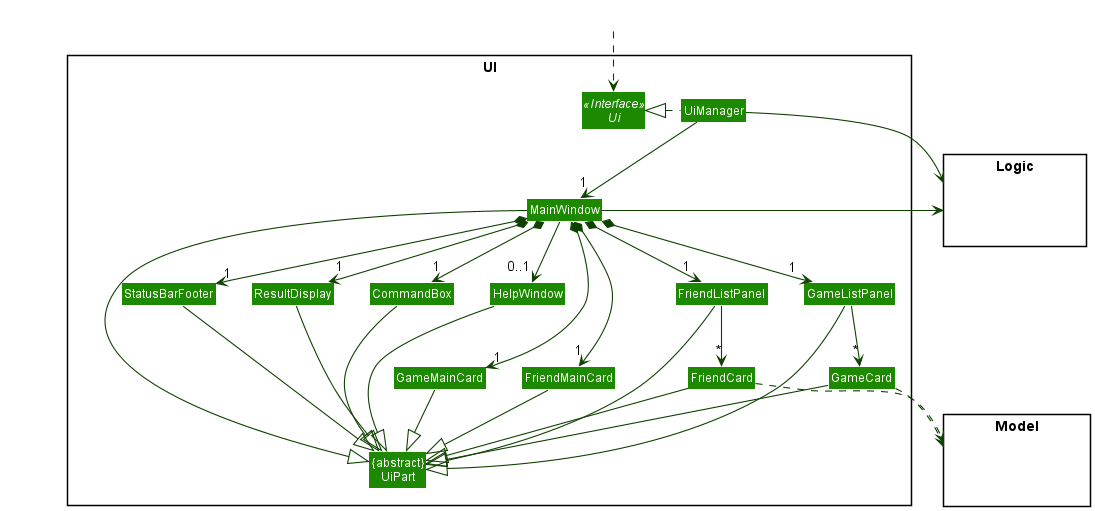
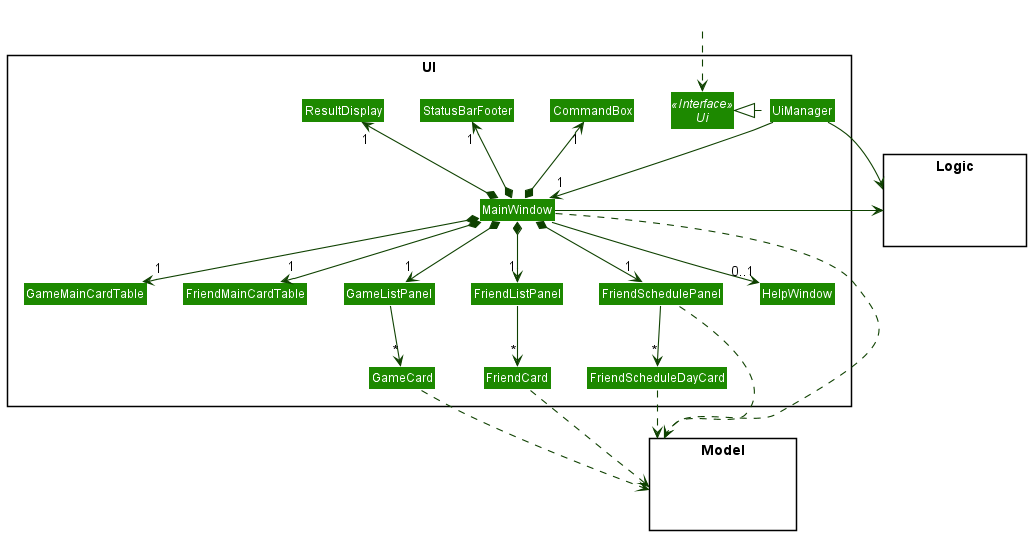
Add link and unlink feature implementation and updated UI component section in DG, update PPP and change some parameter names.

diff --git a/src/main/java/seedu/address/model/friend/UniqueFriendsList.java b/src/main/java/seedu/address/model/friend/UniqueFriendsList.java
@@ -135,14 +135,14 @@ public class UniqueFriendsList implements Iterable<Friend> {
      * Unlinks a Friend {@code friendToUnlink} with game {@code gameToUnlink}.
      * The friend must exist in the list.
      */
-    public void unlink(Friend friendToUnlink, Game gameToUnlink) {
-        requireAllNonNull(friendToUnlink, gameToUnlink);
+    public void unlink(Friend friendToUnlink, Game game) {
+        requireAllNonNull(friendToUnlink, game);
 
         Map<GameId, GameFriendLink> currentLinks = new HashMap<>(friendToUnlink.getGameFriendLinks());
-        Friend editedFriend = new Friend(friendToUnlink.getFriendId(), friendToUnlink.getFriendName(),
+        Friend friendToEdit = new Friend(friendToUnlink.getFriendId(), friendToUnlink.getFriendName(),
                 currentLinks, friendToUnlink.getSchedule());
-        editedFriend.unlink(gameToUnlink);
-        this.setFriend(friendToUnlink, editedFriend);
+        friendToEdit.unlink(game);
+        this.setFriend(friendToUnlink, friendToEdit);
     }
 
     public void setFriends(UniqueFriendsList replacement) {

diff --git a/src/main/java/seedu/address/model/FriendsList.java b/src/main/java/seedu/address/model/FriendsList.java
@@ -110,8 +110,8 @@ public class FriendsList implements ReadOnlyFriendsList {
      * Associates the given friend {@code toLink} in the list with {@code gameFriendLink}
      * {@code toLink} must exist in the friends list.
      */
-    public void linkFriend(Friend toLink, GameFriendLink gameFriendLink) {
-        friends.link(toLink, gameFriendLink);
+    public void linkFriend(Friend friendToLink, GameFriendLink gameFriendLink) {
+        friends.link(friendToLink, gameFriendLink);
     }
 
     /**
@@ -124,8 +124,8 @@ public class FriendsList implements ReadOnlyFriendsList {
     /**
      * Removes the associated {@code GameFriendLink} between Friend {@code toUnlink} and Game {@code game}.
      */
-    public void unlinkFriend(Friend toUnlink, Game game) throws GameLinkNotFoundException {
-        friends.unlink(toUnlink, game);
+    public void unlinkFriend(Friend friendToUnlink, Game game) {
+        friends.unlink(friendToUnlink, game);
     }
 
     /**

diff --git a/src/main/java/seedu/address/logic/commands/friends/UnlinkFriendCommand.java b/src/main/java/seedu/address/logic/commands/friends/UnlinkFriendCommand.java
@@ -51,16 +51,12 @@ public class UnlinkFriendCommand extends Command {
 
         // Obtain a Friend object from the model that matches friendId
         Friend friendToUnlink = model.getFriend(friendId);
-        Game gameToUnlink = model.getGame(gameId);
-        if (!friendToUnlink.hasGameAssociation(gameToUnlink)) {
+        Game game = model.getGame(gameId);
+        if (!friendToUnlink.hasGameAssociation(game)) {
             throw new CommandException(Messages.MESSAGE_GAME_NOT_ASSOCIATED);
         }
 
-        try {
-            model.unlinkFriend(friendToUnlink, gameToUnlink);
-        } catch (GameLinkNotFoundException e) {
-            throw new CommandException(MESSAGE_NO_GAME_LINK_FOUND);
-        }
+        model.unlinkFriend(friendToUnlink, game);
         model.updateFilteredAndSortedFriendsList(Model.PREDICATE_SHOW_ALL_FRIENDS);
 
         return new CommandResult(generateSuccessMessage(friendToUnlink), CommandType.FRIEND_UNLINK);

diff --git a/src/main/java/seedu/address/model/ModelManager.java b/src/main/java/seedu/address/model/ModelManager.java
@@ -147,8 +147,8 @@ public class ModelManager implements Model {
     }
 
     @Override
-    public void linkFriend(Friend toLink, GameFriendLink gameFriendLink) {
-        friendsList.linkFriend(toLink, gameFriendLink);
+    public void linkFriend(Friend friendToLink, GameFriendLink gameFriendLink) {
+        friendsList.linkFriend(friendToLink, gameFriendLink);
     }
 
     @Override
@@ -157,8 +157,8 @@ public class ModelManager implements Model {
     }
 
     @Override
-    public void unlinkFriend(Friend toUnlink, Game game) throws GameLinkNotFoundException {
-        friendsList.unlinkFriend(toUnlink, game);
+    public void unlinkFriend(Friend friendToUnlink, Game game) {
+        friendsList.unlinkFriend(friendToUnlink, game);
     }
 
     //=========== Filtered Friend List Accessors =============================================================

diff --git a/src/main/java/seedu/address/model/Model.java b/src/main/java/seedu/address/model/Model.java
@@ -137,7 +137,7 @@ public interface Model {
     /**
      * Unlinks the friend {@code toUnlink} with the Game {@code game}.
      */
-    void unlinkFriend(Friend toUnlink, Game game) throws GameLinkNotFoundException;
+    void unlinkFriend(Friend toUnlink, Game game);
 
     //=========== GamesBook ==================================================================================
 

diff --git a/src/main/java/seedu/address/ui/FriendMainCardTable.java b/src/main/java/seedu/address/ui/FriendMainCardTable.java
@@ -18,7 +18,6 @@ import seedu.address.model.gamefriendlink.GameFriendLink;
 public class FriendMainCardTable extends UiPart<Region> {
 
     private static final String FXML = "FriendMainCardTable.fxml";
-    private ObservableList<Friend> friendList;
 
     @FXML
     private TableView<GameFriendLink> tableView;

diff --git a/docs/DeveloperGuide.md b/docs/DeveloperGuide.md
@@ -90,6 +90,7 @@ The `UI` component,
 **Component Structure**
 
 ![Structure of the UI Component](images/UiClassDiagram.png)
+![Inheritance from UiPart](images/UiClassDiagramUiPart.png)
 
 The UI consists of a `MainWindow` that is made up of parts e.g.`CommandBox`, `ResultDisplay`, `PersonListPanel`, `StatusBarFooter` etc. All these, including the `MainWindow`, inherit from the abstract `UiPart` class which captures the commonalities between classes that represent parts of the visible GUI.
 
@@ -197,12 +198,23 @@ The parsing of a link command is handled by the following classes:
  - `LinkFriendCommandParser` - Parses the command to extract a `FriendId` object, a `GameId` object and a `UserName` object from the command.
    - `LinkFriendCommandParser#parse()` returns a `LinkFriendCommand` object instantiated with the aforementioned objects as parameters.
  - `LinkFriendCommand` - Represents link friend command that is executed by gitGud.
+   - It calls `Model#linkFriend()` with a `Friend` object argument and a `GameFriendLink` object argument.
+   
+The sequence diagram of the parsing is similar to that of the other friend commands.
 
-Following this, `LinkFriendCommand#execute()` is then called, which in turns calls `ModelManager#linkFriend()` to make changes to the model.
+The implementation of `Model#linkFriend()` is as follows:
+
+- `FriendList#linkFriend()` is called, which in turns called `UniqueFriendList#link()`.
+- A new `Friend` object, `friendToEdit` is created with the same fields as `friendToLink` (the target friend of the link command).
+`Friend#link()` is then called, which modifies `friendToEdit` so that it now contains the new `GameFriendLink`.
+- `UniqueFriendsList#setFriend()` then replaces `friendToLink` with the edited `friendToEdit`, so that the `Friend` in the model is updated.
+
+![Implementation of link command in model](images/LinkSequenceDiagram.png)
 
 #### Special considerations:
 
-Each `Friend` object has a `Map<GameId, GameFriendLink>`, which represents the links to the games it is associated with. However, each `Game` object does not
+ - A separate `GameFriendLink` class was created to represent the association between a friend and a game.
+ - Each `Friend` object has a `Map<GameId, GameFriendLink>`, which represents the links to the games it is associated with. However, each `Game` object does not
 have a corresponding data structure to the friends it is linked to. This reduces coupling between the two components such the implementation of the link feature does not require modification whenever the `Game` class is changed.
 
 ### Unlink
@@ -216,9 +228,18 @@ The parsing of the unlink command is handled by the following classes:
  - `UnlinkFriendCommandParser` - Parses the command to extract a `FriendId` object and a `GameId` object.
    - `UnlinkFriendCommandParser#parse()` return an `UnlinkFriendCommand` object instantiated with the aforementioned objects as parameters.
  - `UnlinkFriendCommand` - Represents unlink friend command that is executed by gitGud.
+   - It calls `Model#unlinkFriend()` with a `Friend` object and a `Game` object.
 
+The sequence diagram of the parsing is similar to that of the other friend commands.
 
-#### Special considerations:
+The implementation of `Model#unlinkFriend()` is as follows:
+
+- `FriendList#unlinkFriend()/FriendList#linkFriend()` is called, which in turns called `UniqueFriendList#unlink()`.
+- A new `Friend` object, `friendToEdit` is created with the same fields as `friendToLink` (the target friend of the unlink command).
+  `Friend#unlink()` is then called, which modifies `friendToEdit` so that it no longer contains a link to the game.
+- `UniqueFriendsList#setFriend()` then replaces `friendToUnlink` with the edited `friendToEdit`, so that the `Friend` in the model is updated.
+
+![Implementation of unlink command in model](images/UnlinkSequenceDiagram.png)
 
 **Aspect: How undo & redo executes:**
 

diff --git a/docs/team/lzher385.md b/docs/team/lzher385.md
@@ -9,16 +9,37 @@ gitGud is a desktop application for managing friends' gaming information. gitGud
 
 Given below are my contributions to the project.
 
-* **New Feature**:
-  1. Added the ability to link a friend with a game he/she plays.
-     1. What it does: allows the user to associate a friend in his contact list with a game that was previously recorded.
-     2. Justification: This feature improves the product significantly because a user is able to note down what games his/her friends play.
+* **Code contributed**: [RepoSense link](https://nus-cs2103-ay2122s1.github.io/tp-dashboard/?search=lzher385&sort=groupTitle&sortWithin=title&timeframe=commit&mergegroup=&groupSelect=groupByRepos&breakdown=true&checkedFileTypes=docs~functional-code~test-code~other&since=2021-09-17&tabOpen=true&tabType=authorship&zFR=false&tabAuthor=LZher385&tabRepo=AY2122S1-CS2103T-W13-4%2Ftp%5Bmaster%5D&authorshipIsMergeGroup=false&authorshipFilesGlob=)
 
-* **Code contributed**: [RepoSense link]()
+* **New Feature**:
+  1. Added the ability to link a friend with a game.
+     1. What it does: allows the user to associate a friend in their contact list with a game that was previously recorded.
+     2. Justification: This feature improves the product significantly because a user is able to note down what games their friends play.
+  2. Added the ability to unlink a friend from a game
+     1. What it does: allows the user to remove the association between a friend and a game that the friend is currently linked to.
+     2. Justification: This feature improves the product significantly as it provides greater flexibility in case a friend no longer plays a particular game.
+  3. Added the ability for the UI to display tables related to a game or a friend.
+     1. What it does: allows the user to see all relevant information related to particular friend/game.
+     2. Challenge: This feature required self-directed learning to learn about JavaFX's TableView and how to use it responsively display data.
+     3. Justification: This feature allows the user to see all information at a glance in neat and tidy format.
+  4. Added the logic for the UI to persist in displaying the previous friend/game that was retrieved using the "get" command.
+     1. What it does: allows the user to continue seeing the previous friend/game that he ran the "get" command for, even when other commands are run.
+     2. Challenge: This feature required thinking through and applying the logic of when to change what was currently displayed, and tracking what the previous friend/game retrieved was.
+     3. Justification: This feature significantly improved user experience as the central display of the UI would not be constantly and unnecessarily refreshed after every command.
+     
+* **Testing**:
+  * Added unit tests for link feature.
 
 * **Documentation**:
   * User Guide:
-    * Added documentation for the features `get --friend` and `get --game`.
+    * Added documentation for the features `friend --get`, `game --get`, `friend --link` and `game --link`.
+    * Edited the introduction to make it more user-focused and gamer-themed.
+
   * Developer Guide:
     * Added glossary for gitGud.
     * Added user story for `link` feature.
+    * Updated UI component section to match gitGud.
+    * Added implementation section of `friend --link` and `friend --unlink` feature.
+
+* **Contribution to team-based tasks:**
+  * Work closely with teammates to fully revamp the UI and kept them up to date about changes to the logic in the UI, so they could continue working on the UI in parallel.
